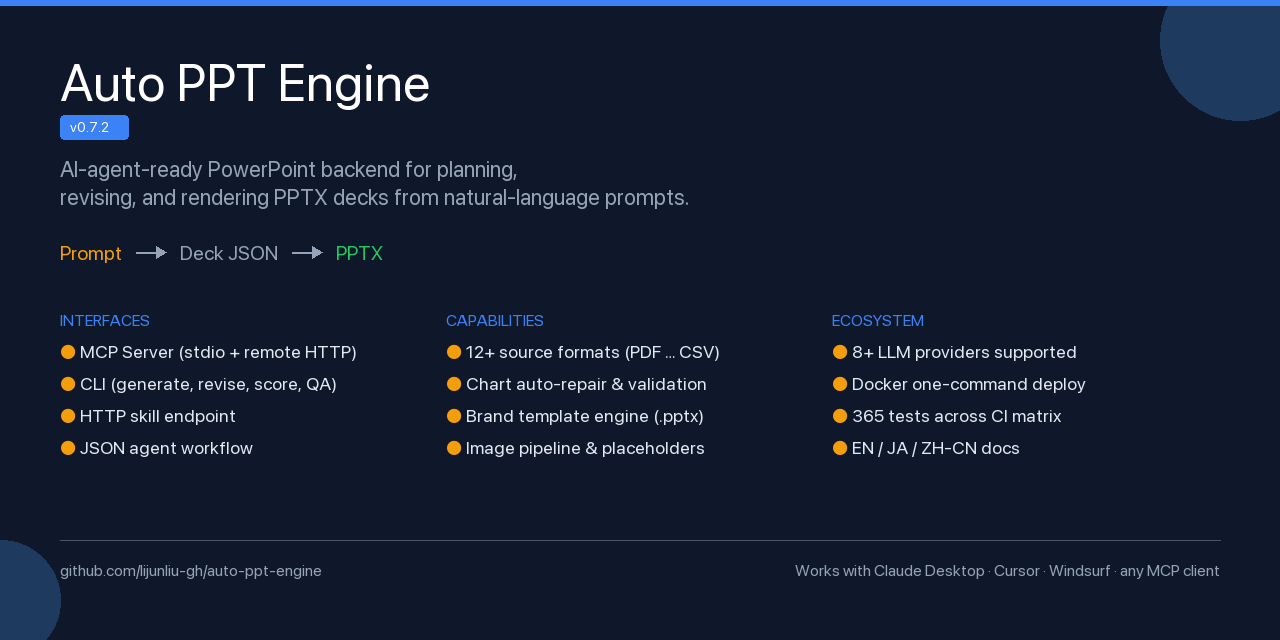
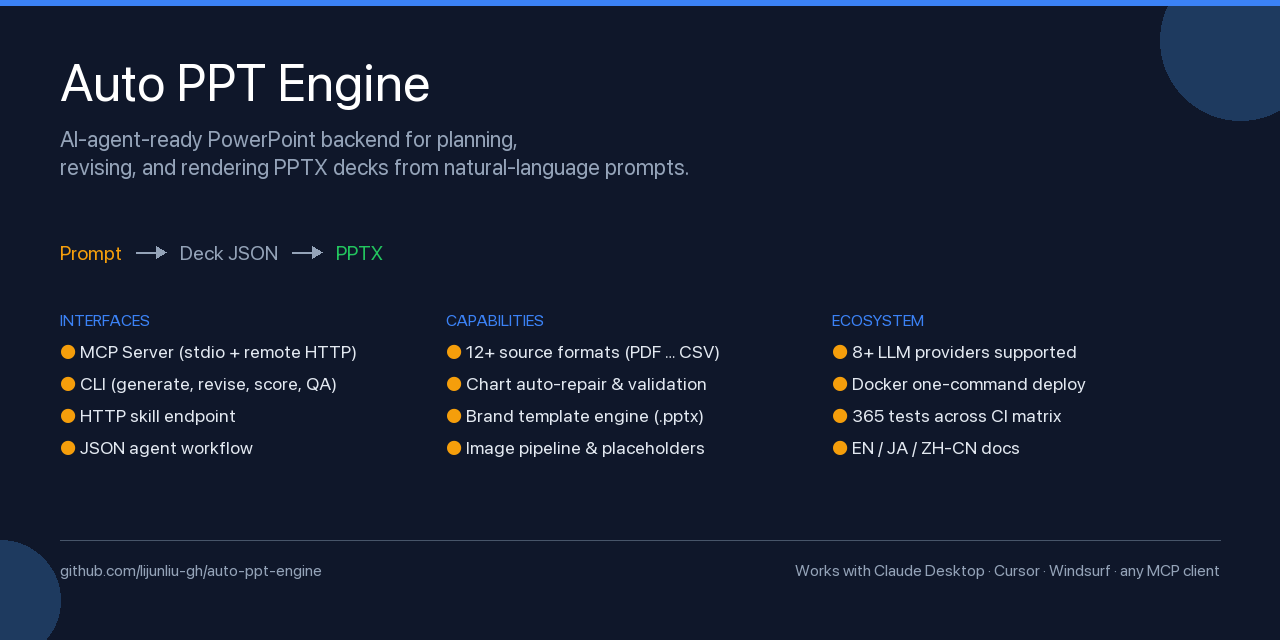
chore: switch license from MIT to Apache 2.0
- Replace LICENSE file with Apache License 2.0
- Update license references in README, pyproject.toml, package.json, package-lock.json, CHANGELOG
- Remove version badge from social-preview image to avoid frequent updates
- Regenerate assets/social-preview.png
- Bump version to 0.7.4

Changed region(s): [[0.0312, 0.1562, 0.5312, 0.3438]]

diff --git a/scripts/gen-social-preview.py b/scripts/gen-social-preview.py
@@ -38,20 +38,13 @@ font_label = get_font(16, bold=True)
 font_feature = get_font(18)
 font_url = get_font(16)
 font_flow = get_font(20, bold=True)
-font_version = get_font(14, bold=True)
 
 # --- Title ---
 draw.text((MARGIN, 50), "Auto PPT Engine", fill="#ffffff", font=font_title)
 
-# --- Version badge ---
-vx = MARGIN
-vy = 115
-draw.rounded_rectangle([(vx, vy), (vx + 68, vy + 24)], radius=4, fill="#3b82f6")
-draw.text((vx + 10, vy + 3), "v0.7.2", fill="#ffffff", font=font_version)
-
 # --- Subtitle ---
-draw.text((MARGIN, 155), "AI-agent-ready PowerPoint backend for planning,", fill="#94a3b8", font=font_subtitle)
-draw.text((MARGIN, 183), "revising, and rendering PPTX decks from natural-language prompts.", fill="#94a3b8", font=font_subtitle)
+draw.text((MARGIN, 125), "AI-agent-ready PowerPoint backend for planning,", fill="#94a3b8", font=font_subtitle)
+draw.text((MARGIN, 153), "revising, and rendering PPTX decks from natural-language prompts.", fill="#94a3b8", font=font_subtitle)
 
 # --- Flow diagram ---
 flow_y = 240

diff --git a/README.md b/README.md
@@ -2,7 +2,7 @@
 
 <p align="center">
   <a href="https://github.com/lijunliu-gh/auto-ppt-engine/tags"><img src="https://img.shields.io/github/v/tag/lijunliu-gh/auto-ppt-engine?label=release&sort=semver" alt="Release"></a>
-  <a href="LICENSE"><img src="https://img.shields.io/badge/license-MIT-blue.svg" alt="License"></a>
+  <a href="LICENSE"><img src="https://img.shields.io/badge/license-Apache%202.0-blue.svg" alt="License"></a>
   <a href="https://github.com/lijunliu-gh/auto-ppt-engine/actions/workflows/smoke.yml"><img src="https://img.shields.io/github/actions/workflow/status/lijunliu-gh/auto-ppt-engine/smoke.yml?branch=main&label=CI" alt="CI"></a>
   <a href="tests/"><img src="https://img.shields.io/badge/tests-409%20passed-brightgreen" alt="Tests"></a>
   <a href="tests/"><img src="https://img.shields.io/badge/coverage-84%25-green" alt="Coverage"></a>
@@ -182,4 +182,4 @@ Multilingual: all guides available in [English](docs/EXAMPLES.en.md), [中文](d
 
 ## License
 
-MIT
+Apache 2.0 — see [LICENSE](LICENSE) for details.

diff --git a/CHANGELOG.md b/CHANGELOG.md
@@ -6,6 +6,13 @@ The format is based on Keep a Changelog, and this project follows Semantic Versi
 
 ## [Unreleased]
 
+## [0.7.4] - 2026-03-23
+
+### Changed
+
+- Switch license from MIT to Apache 2.0 for better patent protection and enterprise adoption
+- Remove version badge from social preview image to avoid frequent updates
+
 ## [0.7.3] - 2026-03-22
 
 ### Added
@@ -223,7 +230,7 @@ The format is based on Keep a Changelog, and this project follows Semantic Versi
 
 ### Added
 
-- open-source publishing baseline with MIT license, governance docs, issue templates, PR template, and smoke CI
+- open-source publishing baseline with Apache 2.0 license, governance docs, issue templates, PR template, and smoke CI
 - agent-callable create and revise flows with JSON skill and local HTTP service support
 - source-aware planning from local files and URLs
 - multilingual documentation in English, Simplified Chinese, and Japanese
